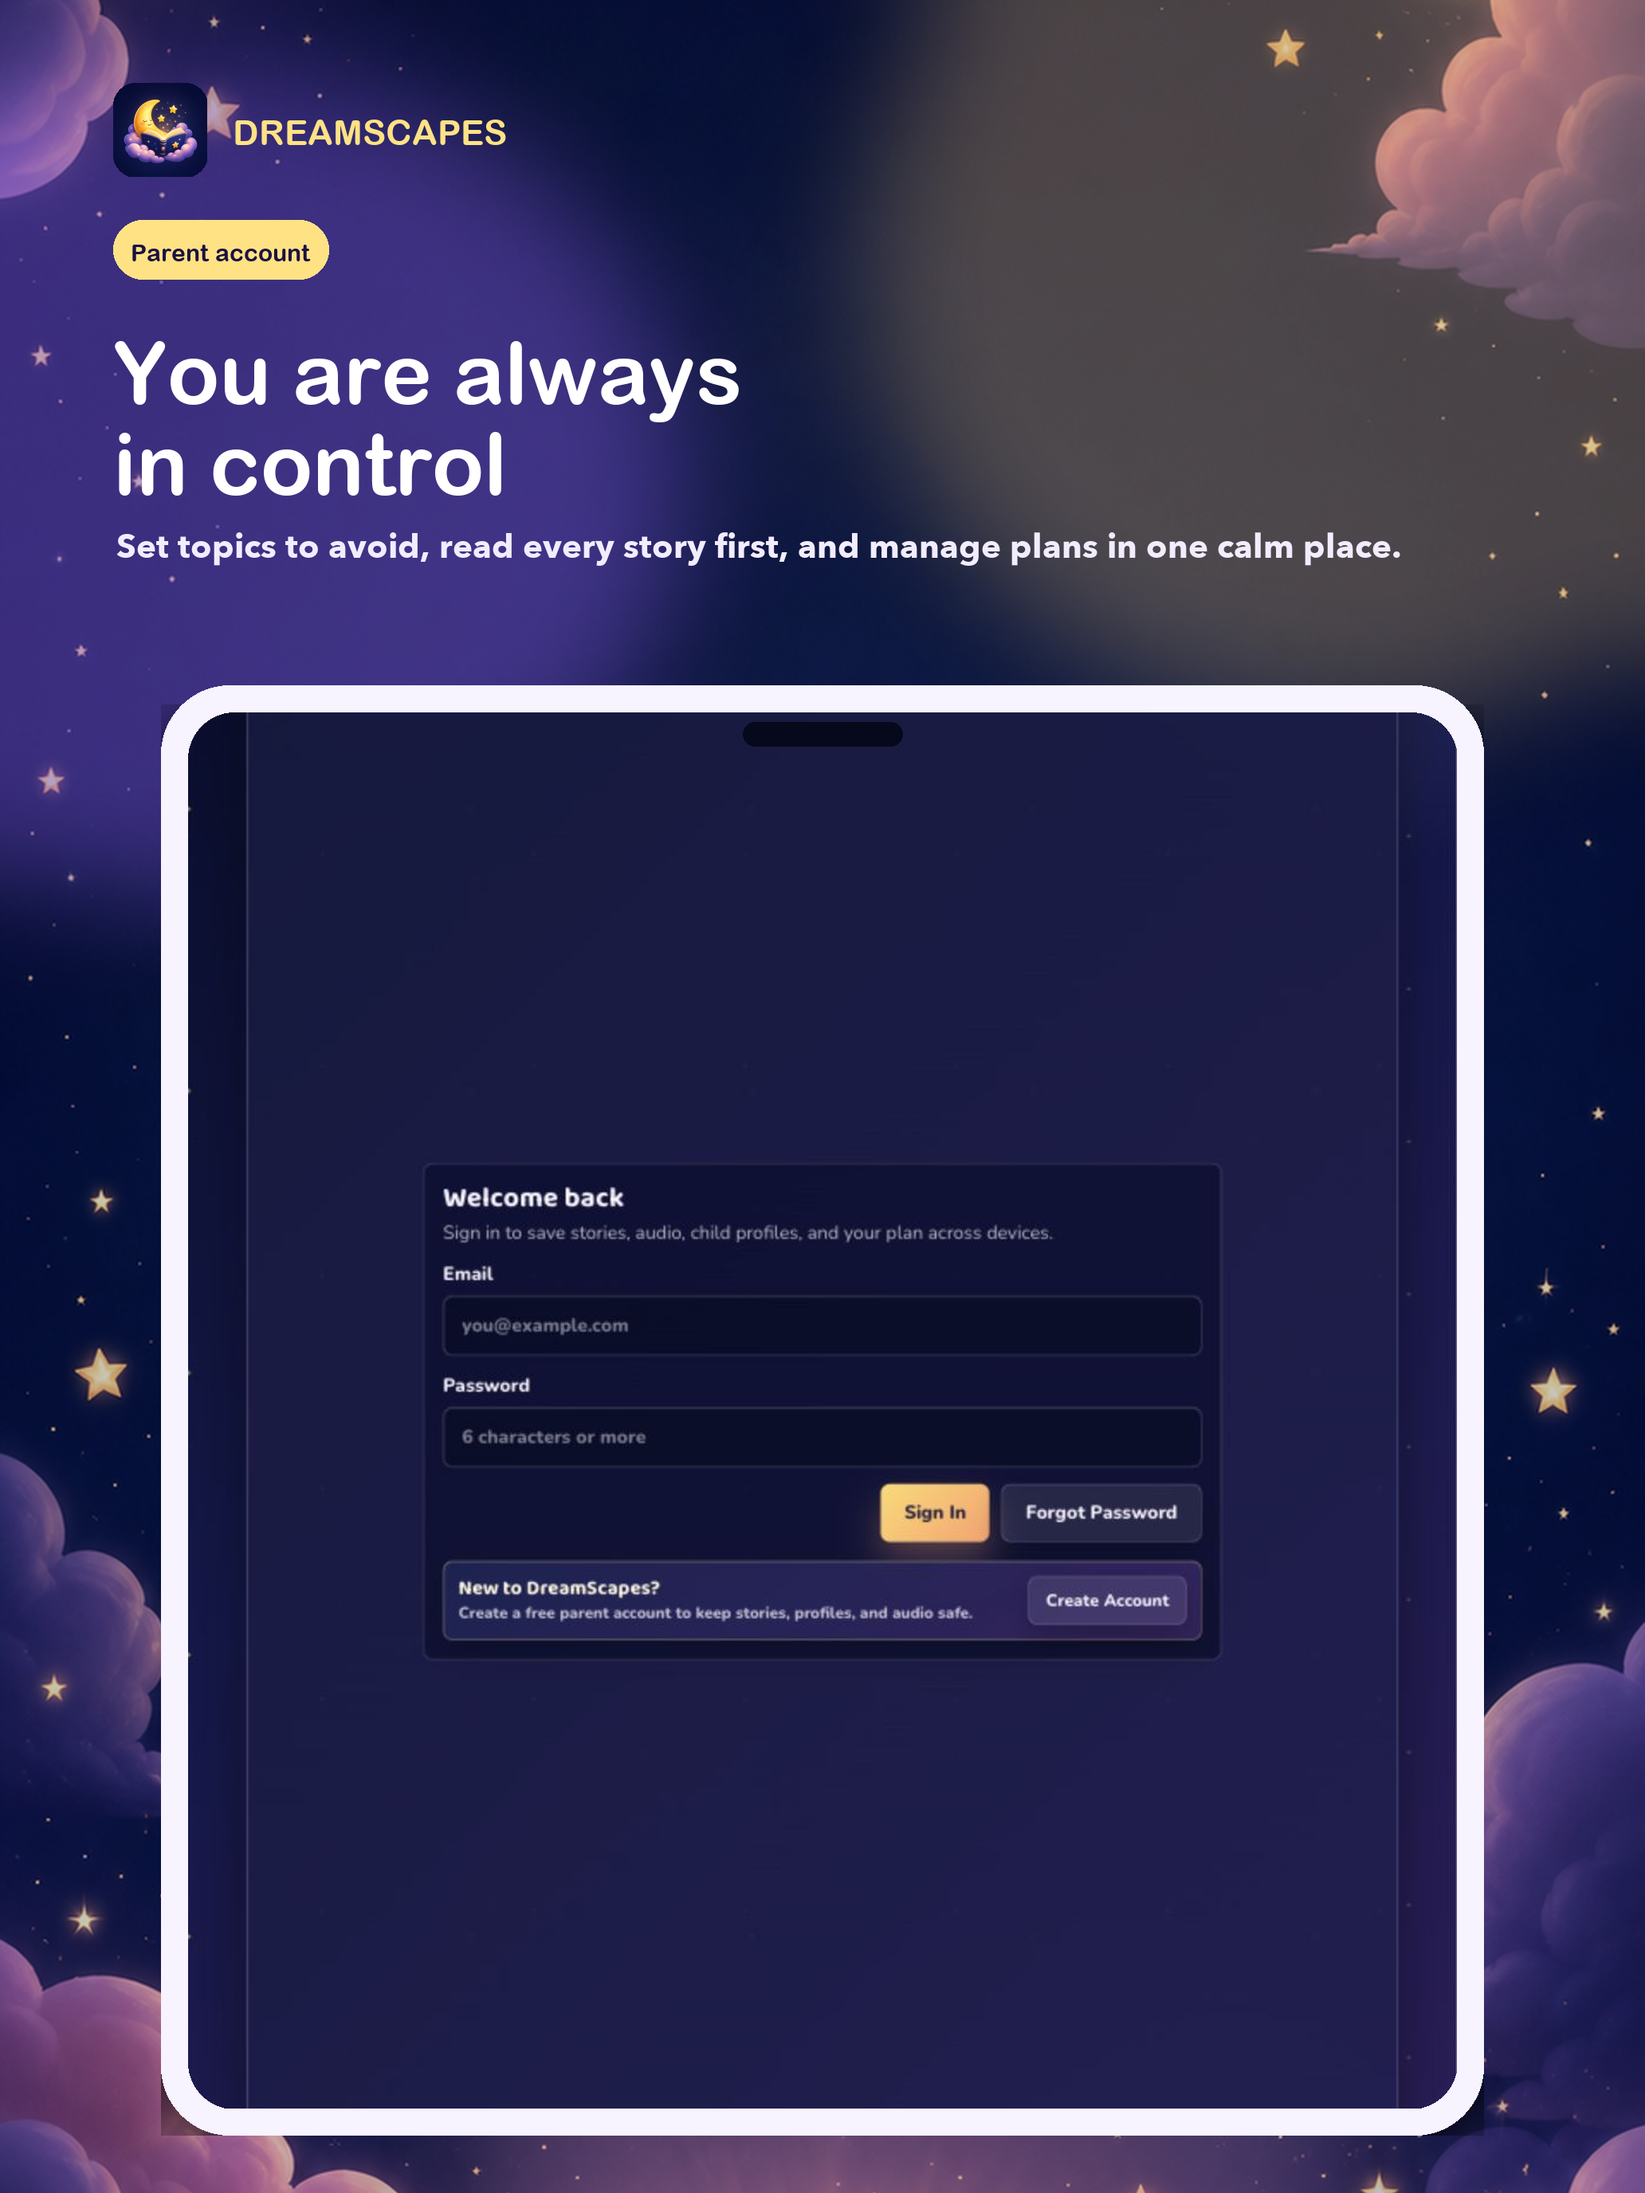
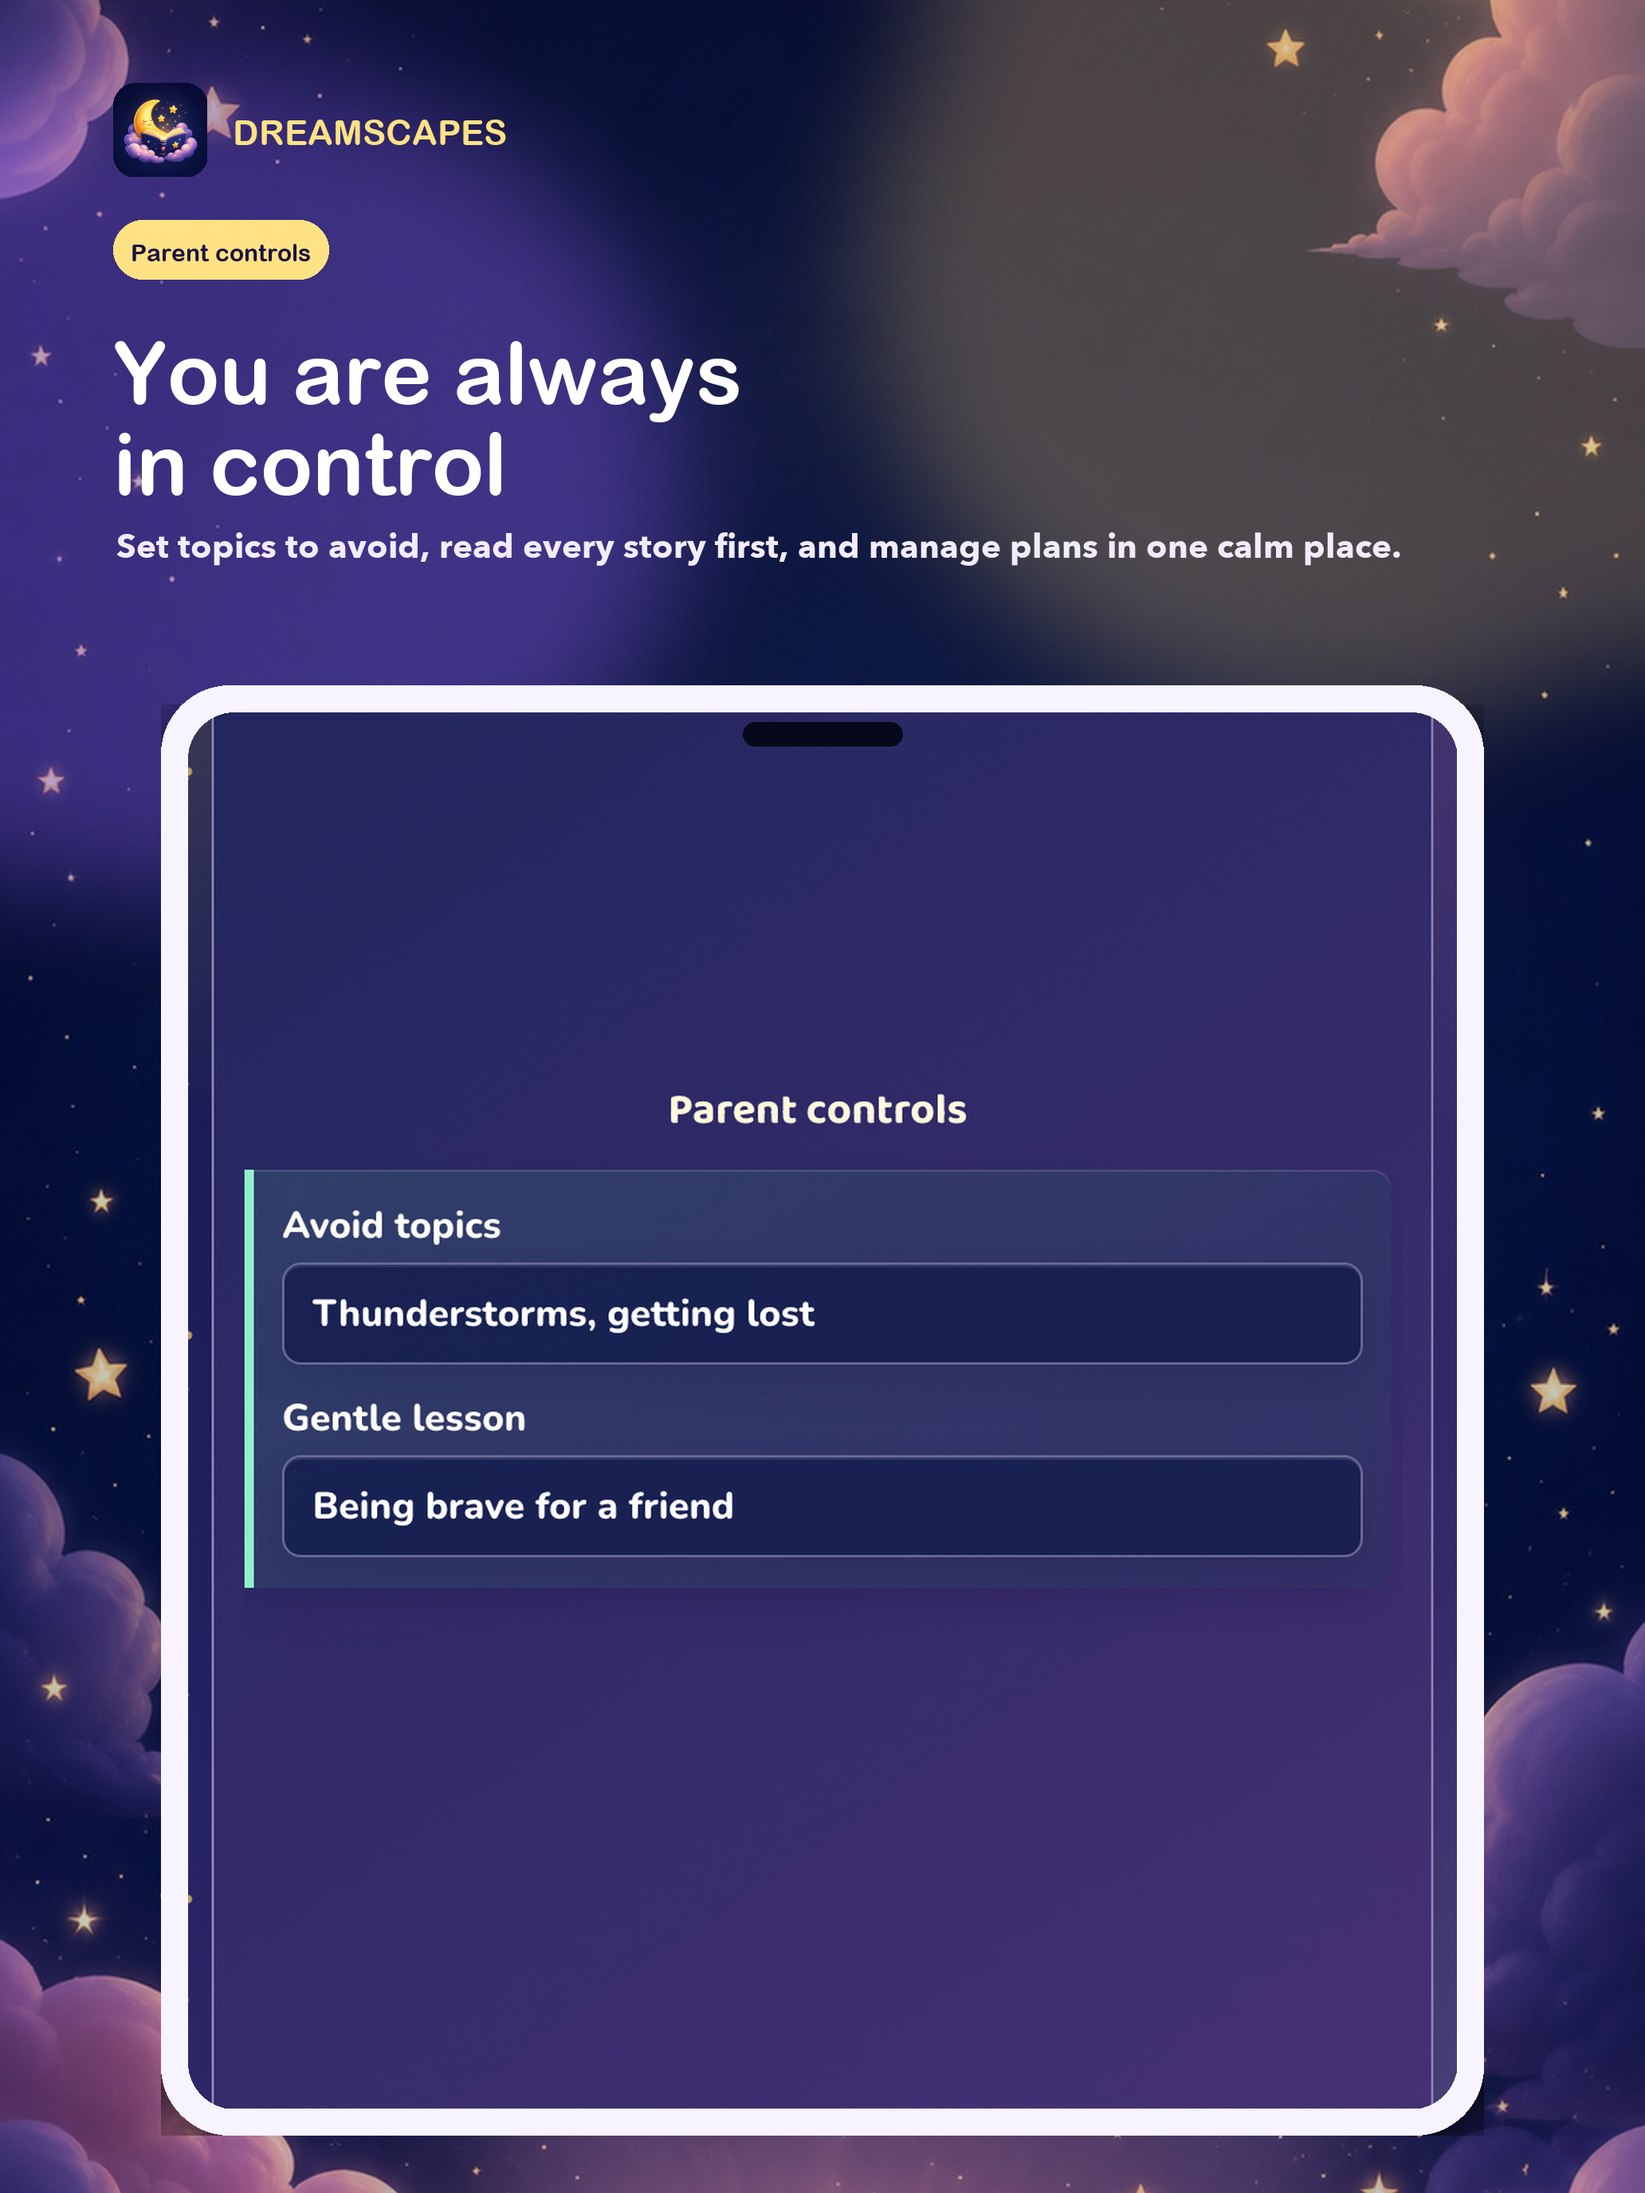
Retake the store screenshots from the app as it is now
The source captures were from July and early September. Screenshot one promised
a free story with no account above a picture of the old home screen, which said
"Create a Story" and offered nothing of the kind, and the builder shot showed
the single long form from before the micro-step redesign - a screen the app no
longer has.

Screenshot four showed the Parent Login form, so the last thing a browsing
parent saw was a sign-in wall, under a headline about being in control, for an
app that no longer needs an account to try. It now shows the parent controls
themselves: topics to avoid and the gentle lesson.

Captured headless at 540x960 with a device scale factor of 2, which is a phone
layout at the 1080x1920 the scripts expect - captured at 1080 CSS pixels the app
renders its desktop layout and everything comes out small and stranded.

diff --git a/scripts/build-ipad-13-screenshots.py b/scripts/build-ipad-13-screenshots.py
@@ -44,10 +44,10 @@ SCREENS = [
     ),
     (
         "04-parent-friendly-controls.png",
-        "04-parent-account.png",
+        "04-parent-controls.png",
         "You are always\nin control",
         "Set topics to avoid, read every story first, and manage plans in one calm place.",
-        "Parent account",
+        "Parent controls",
     ),
 ]
 

diff --git a/scripts/build-ios-screenshots.py b/scripts/build-ios-screenshots.py
@@ -45,10 +45,10 @@ SCREENS = [
     ),
     (
         "04-parent-friendly-account.png",
-        "04-parent-account.png",
+        "04-parent-controls.png",
         "You are always\nin control",
         "Set topics to avoid, read every story first, and manage plans in one calm place.",
-        "Parent account",
+        "Parent controls",
     ),
 ]
 

diff --git a/scripts/build-play-screenshots.py b/scripts/build-play-screenshots.py
@@ -39,7 +39,7 @@ SCREENS = [
     ),
     (
         "04-parent-account.jpg",
-        "04-parent-account.png",
+        "04-parent-controls.png",
         "You are always\nin control",
         "Set topics to avoid and read every story first",
         620,
